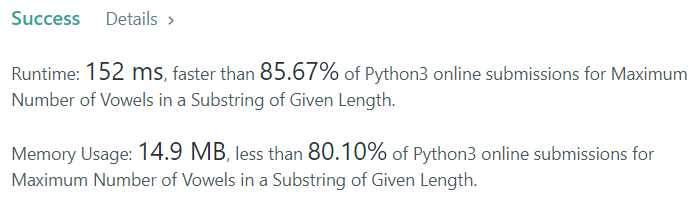
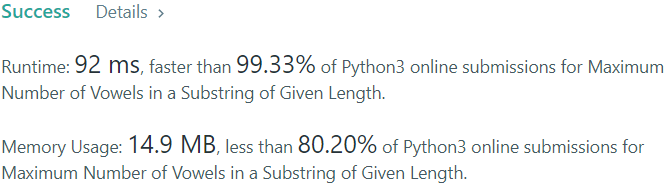
Maximum Number of Vowels optimized

diff --git a/LeetCode/String Code/Maximum Number of Vowels in a Substring of Given Length/solution.py b/LeetCode/String Code/Maximum Number of Vowels in a Substring of Given Length/solution.py
@@ -2,13 +2,14 @@ class Solution:
     def maxVowels(self, s: str, k: int) -> int:
         max_vowel = 0
         count = 0
-        vowels = ["a", "e", "i", "o", "u"]
+        vowels = "aeiou"
         n = len(s)
 
-        for i in range(0, k):
-            if s[i] in vowels:
-                max_vowel += 1
+        for i in s[:k]:
+            if i in vowels:
                 count += 1
+
+        max_vowel = count
 
         for i in range(k, n):
             if s[i-k] in vowels:
